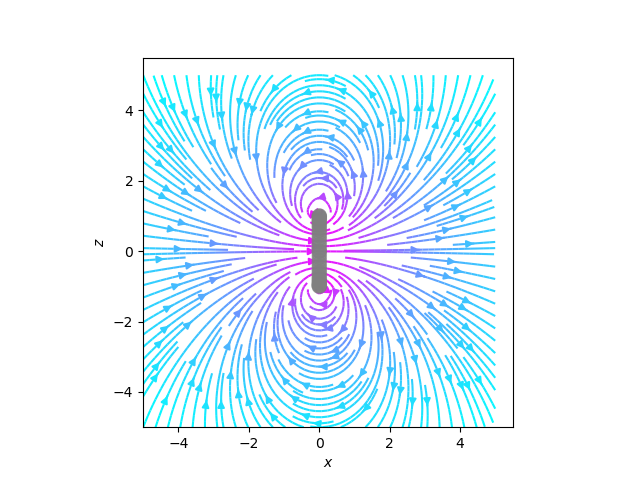
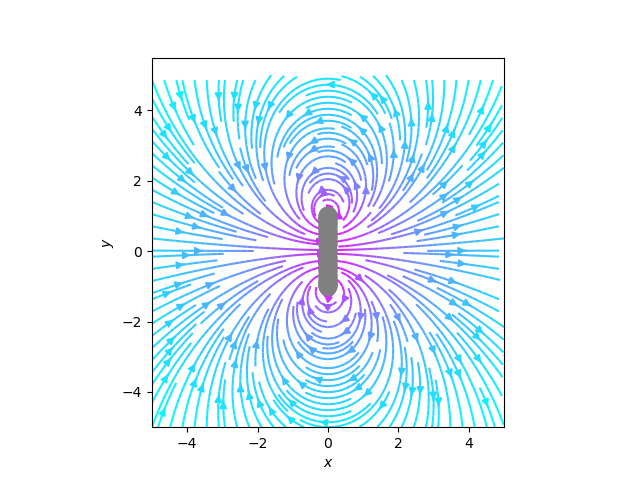
EBFieldSolver

Changed region(s): [[0.1562, 0.1562, 0.8125, 0.9375]]

diff --git a/src/FieldPlot.py b/src/FieldPlot.py
@@ -7,7 +7,7 @@ from mpl_toolkits import mplot3d
 from matplotlib.patches import Circle, PathPatch
 
 
-def static_field_2d(xy_max, objects, function, nabla='', n_xy=50):
+def static_field(xy_max, objects, function, nabla='', n_xy=50):
     if nabla != '':
         f_x, f_y, f_z = fc.field(xy_max, n_xy, objects, function=function, plane='xy')
         potential_lines(xy_max, np.sqrt(f_x ** 2 + f_y ** 2 + f_z ** 2))
@@ -18,13 +18,14 @@ def static_field_2d(xy_max, objects, function, nabla='', n_xy=50):
         field_lines(xy_max, df_x, df_y, objects)
 
 
-def static_field_3d(xyz_max, objects, function, n_xyz=6):
+def static_field3d(xyz_max, objects, function, n_xyz=6):
     f_x, f_y, f_z = fc.field3d(xyz_max, n_xyz, objects, function=function)
     arrow_field3d(xyz_max, f_x, f_y, f_z, field_objects=True)
 
 
-def dynamic_field(xy_max, t_max, object, function, n_xy=30, n_t=50, save=False):
+def dynamic_field(xy_max, t_max, object, function, n_xy=30, save=False):
     objects = [object]
+    n_t = 50
     t = np.linspace(0, t_max, n_t)
     for t_i in t:
         if function == 'H':
@@ -42,10 +43,7 @@ def dynamic_field(xy_max, t_max, object, function, n_xy=30, n_t=50, save=False):
             cfunc = f_x * fc.radius_unit(xy_max, n_xy)
             arrow_field(xy_max, f_x, f_z, cfunc=cfunc)
         fa.save_frame(function)
-    if save:
-        fa.save_anim(function)
-    else:
-        fa.render_anim(function)
+    fa.save_anim(function) if save else fa.render_anim(function)
 
 
 def arrow_field(xy_max, f_x, f_y, normalize=False, cfunc=None, show=False):
@@ -61,22 +59,17 @@ def arrow_field(xy_max, f_x, f_y, normalize=False, cfunc=None, show=False):
     else:
         cfunc = cfunc
     plt.quiver(x, y, f_x / f_xy_norm, f_y / f_xy_norm, cfunc, cmap='cool')
-    plot(show)
+    fa.render_frame() if show else 0
 
 
-def arrow_field3d(xyz_max, f_x, f_y, f_z, field_objects=True):
-    fa.aspect_ratio(False)
+def arrow_field3d(xyz_max, f_x, f_y, f_z, field_objects=True, show=True):
     x, y, z = fc.mesh3d(xyz_max, len(f_x))
     plt.subplot(projection='3d', label='none')
+    plt.gca().set_zlabel(r'$z$')
     plt.quiver(x, y, z, f_x, f_y, f_z, length=xyz_max / len(f_x), normalize=True)
-
     if field_objects:
-        ring = Circle((0, 0), 1, edgecolor='black', fill=False)
-        plt.gca().add_patch(ring)
-        art3d.pathpatch_2d_to_3d(ring, z=0, zdir="x")
-        plt.quiver(0., 0., 0., 0., 1., 0., color='red')
-        plt.quiver(0., 1., 0., 0., 0., 1., color='green')
-    plt.show()
+        draw_object()
+    fa.render_frame(aspect=False) if show else 0
 
 
 def potential_lines(xy_max, f_xy, field_objects=(None,), show=False):
@@ -84,7 +77,7 @@ def potential_lines(xy_max, f_xy, field_objects=(None,), show=False):
     f_xy_levels = np.linspace(np.min(f_xy) / 10, np.max(f_xy) / 10, 4)
     plt.contour(x, y, f_xy, f_xy_levels, colors='k', alpha=0.5)
     draw(field_objects)
-    plot(show)
+    fa.render_frame() if show else 0
 
 
 def field_lines(xy_max, f_x, f_y, field_objects=(None,), show=True):
@@ -92,10 +85,6 @@ def field_lines(xy_max, f_x, f_y, field_objects=(None,), show=True):
     f_xy_norm = np.hypot(f_x, f_y)
     plt.streamplot(x, y, f_x, f_y, color=np.log(f_xy_norm), cmap='cool', zorder=0, density=2)
     draw(field_objects)
-    plot(show)
-
-
-def plot(show):
     fa.render_frame() if show else 0
 
 
@@ -103,3 +92,11 @@ def draw(field_objects):
     if field_objects[0] is not None:
         for field_object in field_objects:
             field_object.form()
+
+
+def draw_object():
+    ring = Circle((0, 0), 1, edgecolor='black', fill=False)
+    plt.gca().add_patch(ring)
+    art3d.pathpatch_2d_to_3d(ring, z=0, zdir="x")
+    plt.quiver(0., 0., 0., 0., 1., 0., color='red')
+    plt.quiver(0., 1., 0., 0., 0., 1., color='green')

diff --git a/src/FieldAnimation.py b/src/FieldAnimation.py
@@ -8,51 +8,50 @@ from matplotlib import animation
 def render_frame(x_label='$x$', y_label='$y$', back_color='white', show=True, aspect=True):
     plt.xlabel(r'' + x_label + '')
     plt.ylabel(r'' + y_label + '')
-    # plt.rcParams["figure.figsize"] = (5, 5)
     plt.gca().set_facecolor(back_color)
-    aspect_ratio(aspect)
+    plt.gca().set_aspect('equal') if aspect else plt.gca().set_aspect('auto')
     plt.show() if show else 0
-
-
-def aspect_ratio(aspect=True):
-    if aspect:
-        plt.gca().set_aspect('equal')
-    else:
-        plt.gca().set_aspect('auto')
 
 
 def render_anim(location):
     fig = plt.gcf()
     frames = []
+    dpath = 'img/temporary'
+    os.makedirs(dpath) if not os.path.isdir(dpath) else 0
     for i in range(0, 50, 1):
-        path = 'img/temporary/' + location + str(i) + '.png'
-        img = mpimg.imread(path)
+        fpath = dpath + '/' + location + str(i) + '.png'
+        img = mpimg.imread(fpath)
+        # plt.rcParams["figure.figsize"] = (10, 10)
         frame = plt.imshow(img, animated=True)
         plt.gca().axis('off')
         frames.append([frame])
-        os.remove(path)
-
+        os.remove(fpath)
     animation.ArtistAnimation(fig, frames, interval=50, blit=True)
     plt.show()
 
 
 def save_anim(location):
-    with iio.get_writer('img/dynamic/' + location + '.gif', mode='I') as writer:
+    dpath = 'img/dynamic'
+    os.makedirs(dpath) if not os.path.isdir(dpath) else 0
+    with iio.get_writer(dpath + '/' + location + '.gif', mode='I') as writer:
         for i in range(0, 50, 1):
-            s = 'img/temporary/' + location + str(i) + '.png'
-            image = iio.imread(s)
+            fpath = 'img/temporary/' + location + str(i) + '.png'
+            image = iio.imread(fpath)
             writer.append_data(image)
-            os.remove(s)
-    print('Saving ./dynamic/' + str(location) + '.gif')
+            os.remove(fpath)
+    print('Saving ' + os.getcwd() + '/img/dynamic/' + str(location) + '.gif')
 
 
 def save_frame(location):
     render_frame(show=False)
-    location = 'temporary/' + location
+    ftype = location
+    dpath = 'img/temporary'
+    location = 'img/temporary/' + location
+    os.makedirs(dpath) if not os.path.isdir(dpath) else 0
     for i in range(0, 50, 1):
-        path = 'img/' + location + str(i) + '.png'
-        if not os.path.exists(path):
-            plt.savefig(path)
-            print('Loading... ' + str(round(((i + 1) / 50.) * 100.)) + '%')
+        fpath = location + str(i) + '.png'
+        if not os.path.exists(fpath):
+            plt.savefig(fpath)
+            print('Loading ' + ftype + ': ' + str(round(((i + 1) / 50.) * 100.)) + '%')
             break
     plt.cla()

diff --git a/src/FieldObject.py b/src/FieldObject.py
@@ -10,8 +10,8 @@ Z_0 = np.sqrt(mu_0 / epsilon_0)
 
 
 class Charge:
-    e_const = 1 / (4 * np.pi * epsilon_0)
-    m_const = (mu_0 / (4 * np.pi))
+    epsilon = 1. / (4. * np.pi * epsilon_0)
+    mu = (mu_0 / (4. * np.pi))
 
     def __init__(self, q, r0_x, r0_y, r0_z=0, v_x=0, v_y=0, v_z=0):
         self.q = q
@@ -33,43 +33,41 @@ class Charge:
     def E(self, x, y, z):
         r = np.array([x, y, z])
         r_r0_norm = np.linalg.norm(r - self.r0)
-        E = self.e_const * self.q * ((r - self.r0) / r_r0_norm ** 3)
+        E = self.epsilon * self.q * ((r - self.r0) / r_r0_norm ** 3)
         return E
 
     def phi(self, x, y, z):
         r = np.array([x, y, z])
         r_r0_norm = np.linalg.norm(r - self.r0)
-        phi = self.e_const * self.q * (1 / r_r0_norm) * np.array([1., 0., 0.])
+        phi = self.epsilon * self.q * (1 / r_r0_norm) * np.array([1., 0., 0.])
         return phi
 
     def B(self, x, y, z):
         r = np.array([x, y, z])
         r_r0_norm = np.linalg.norm(r - self.r0)
         v_cross_r_r0 = np.cross(self.v, r - self.r0)
-        B = self.m_const * ((self.q * v_cross_r_r0) / (r_r0_norm ** 3))
+        B = self.mu * ((self.q * v_cross_r_r0) / (r_r0_norm ** 3))
         return B
 
     def A(self, x, y, z):
         r = np.array([x, y, z])
         r_r0_norm = np.linalg.norm(r - self.r0)
-        A = self.m_const * ((self.q * self.v) / r_r0_norm)
+        A = self.mu * ((self.q * self.v) / r_r0_norm)
         return A
 
 
 class Antenna:
-    def __init__(self, frequency, power, L=0.):
-        self.r0 = np.array([0., 0., 0.])
-        self.frequency = frequency
+    def __init__(self, frequency, power, l=0., x=0., y=0., z=0.):
+        self.r0 = np.array([x, y, z])
         self.T = 1. / frequency
-        self.power = power
-        self.omega = 2. * np.pi * self.frequency
-        self.lambda_0 = c / self.frequency
+        self.omega = 2. * np.pi * frequency
+        self.lambda_0 = c / frequency
         self.k_0 = (2. * np.pi) / self.lambda_0
-        self.L = L * self.lambda_0
-        self.h = L / 2.
+        self.L = l * self.lambda_0
+        self.h = l / 2.
         self.I_0 = power / 1.e3
-        self.p_z = np.sqrt(12. * np.pi * c * self.power / (mu_0 * self.omega ** 4))
-        self.factor = 0.
+        self.p_z = np.sqrt(12. * np.pi * c * power / (mu_0 * self.omega ** 4))
+        self.factor = .0
 
     def form(self):
         ellipse = patch.Ellipse((self.r0[0], self.r0[1]), 0.1, 0.2, color='grey', alpha=0.5)

diff --git a/src/StaticField.py b/src/StaticField.py
@@ -1,9 +1,9 @@
 import numpy as np
 from FieldObject import Charge
-from FieldPlot import static_field_2d, static_field_3d
+from FieldPlot import static_field, static_field3d
 
 # charge and its position
-q = x = y = 1.0
+q = x = y = 1.
 # quadrupole
 quadrupole = []
 quadrupole.append(Charge(-q, -x, y))
@@ -12,11 +12,11 @@ quadrupole.append(Charge(q, -x, -y))
 quadrupole.append(Charge(-q, x, -y))
 
 # charge and x-coords of position and velocity
-q = 1.0
-r_x = v_x = 0.
+q = 1.
+r_x = v_x = .0
 # conductor loop
 loop = []
-for angle in np.linspace(0, 2. * np.pi, 32, endpoint=False):
+for angle in np.linspace(.0, 2. * np.pi, 32, endpoint=False):
     r_y = np.cos(angle)
     r_z = np.sin(angle)
     v_y = -np.sin(angle)
@@ -26,8 +26,8 @@ for angle in np.linspace(0, 2. * np.pi, 32, endpoint=False):
 
 if __name__ == "__main__":
     xy_max = 5.
-    static_field_2d(xy_max, quadrupole, function='E')
-    static_field_2d(xy_max, loop, function='B')
+    static_field(xy_max, quadrupole, function='E')
+    static_field(xy_max, loop, function='B')
 
     xyz_max = 2.
-    static_field_3d(xyz_max, loop, function='B')
+    static_field3d(xyz_max, loop, function='B')

diff --git a/src/DynamicField.py b/src/DynamicField.py
@@ -4,14 +4,14 @@ from FieldPlot import dynamic_field
 
 # antenna with f=500MHz and P=1W
 frequency = 500.e6
-power = 1.
-l = 3./2.
-antenna = Antenna(frequency, power, l)
+power = 2.
+length = 3./2.
+antenna = Antenna(frequency, power, length)
 
 
 if __name__ == "__main__":
     # lambda_0 -> wavelength of antenna wave
-    xyz_max = 2 * antenna.lambda_0
+    xyz_max = 2. * antenna.lambda_0
     # T -> period of antenna oscillation
     t_max = antenna.T
 
